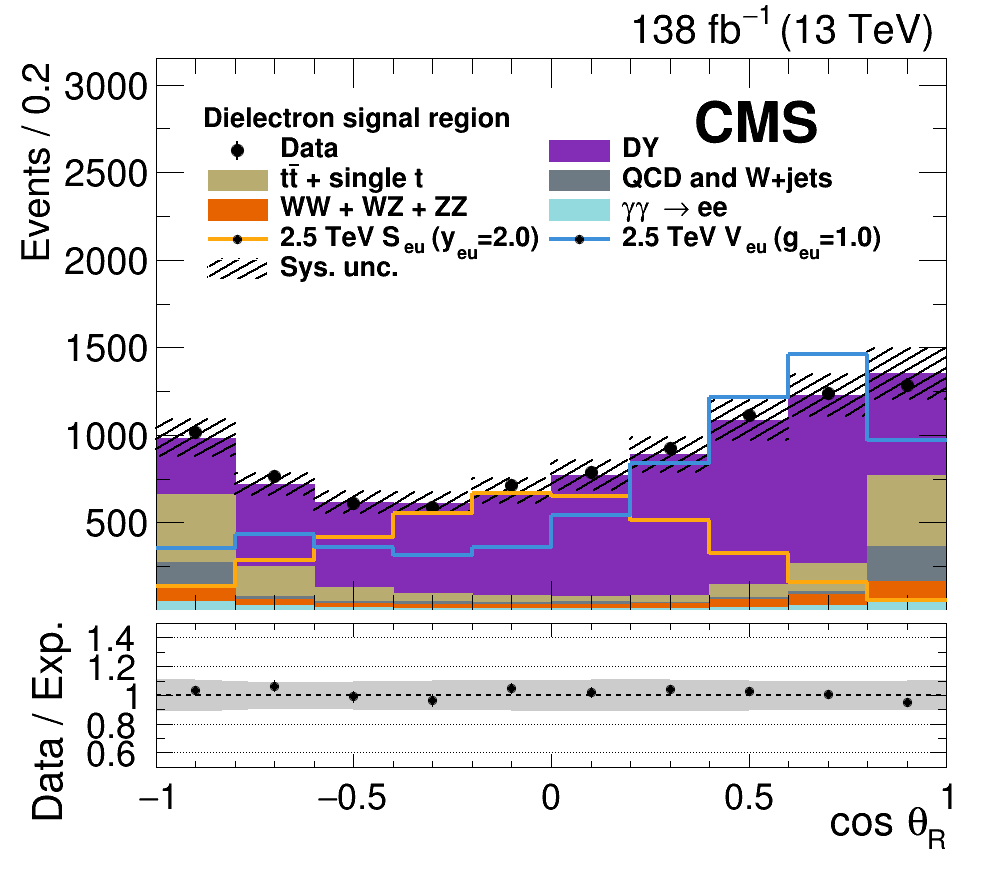
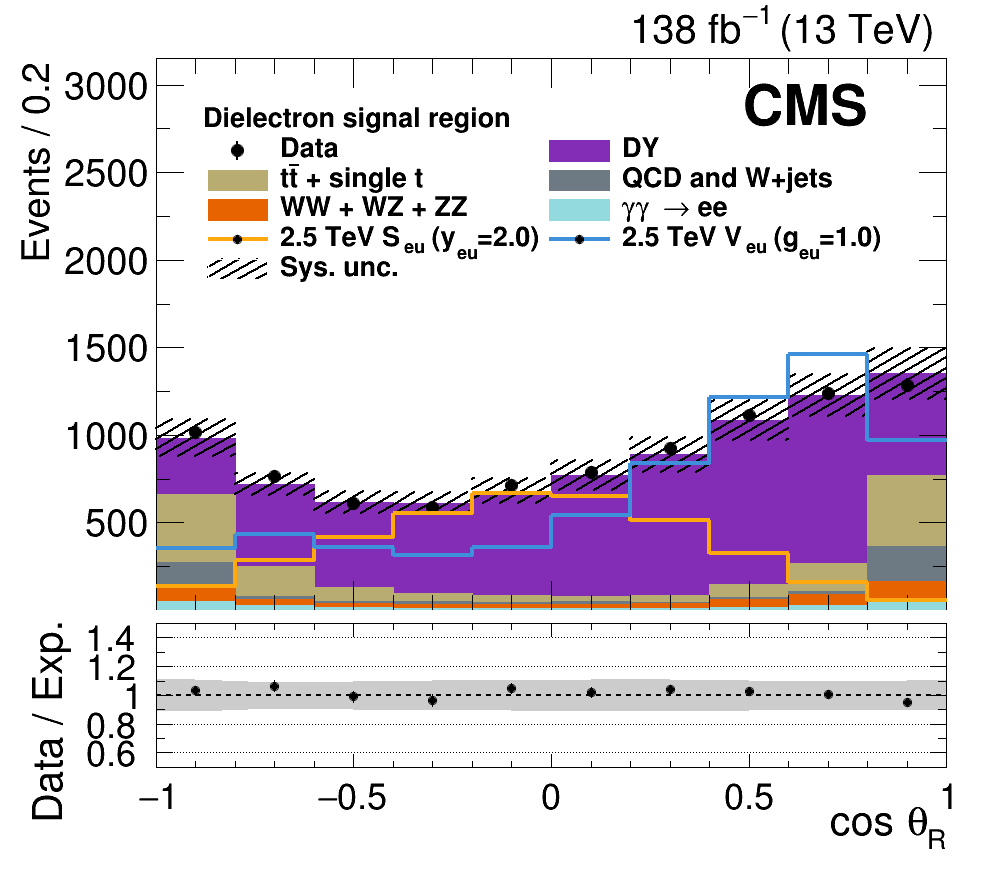
changed CMS pos, change ratio y label

Changed region(s): [[0.6847, 0.0929, 0.8715, 0.1858]]

diff --git a/plots/CMS_lumi.C b/plots/CMS_lumi.C
@@ -152,7 +152,7 @@ CMS_lumi( TPad* pad, int iPeriod, int iPosX )
       latex.SetTextFont(cmsTextFont);
       latex.SetTextSize(cmsTextSize*t);
       latex.SetTextAlign(align_);
-      if(draw_CMS) latex.DrawLatex(posX_+0.5, posY_-0.03, cmsText);
+      if(draw_CMS) latex.DrawLatex(posX_+0.55, posY_-0.01, cmsText);
       
         
 	  
